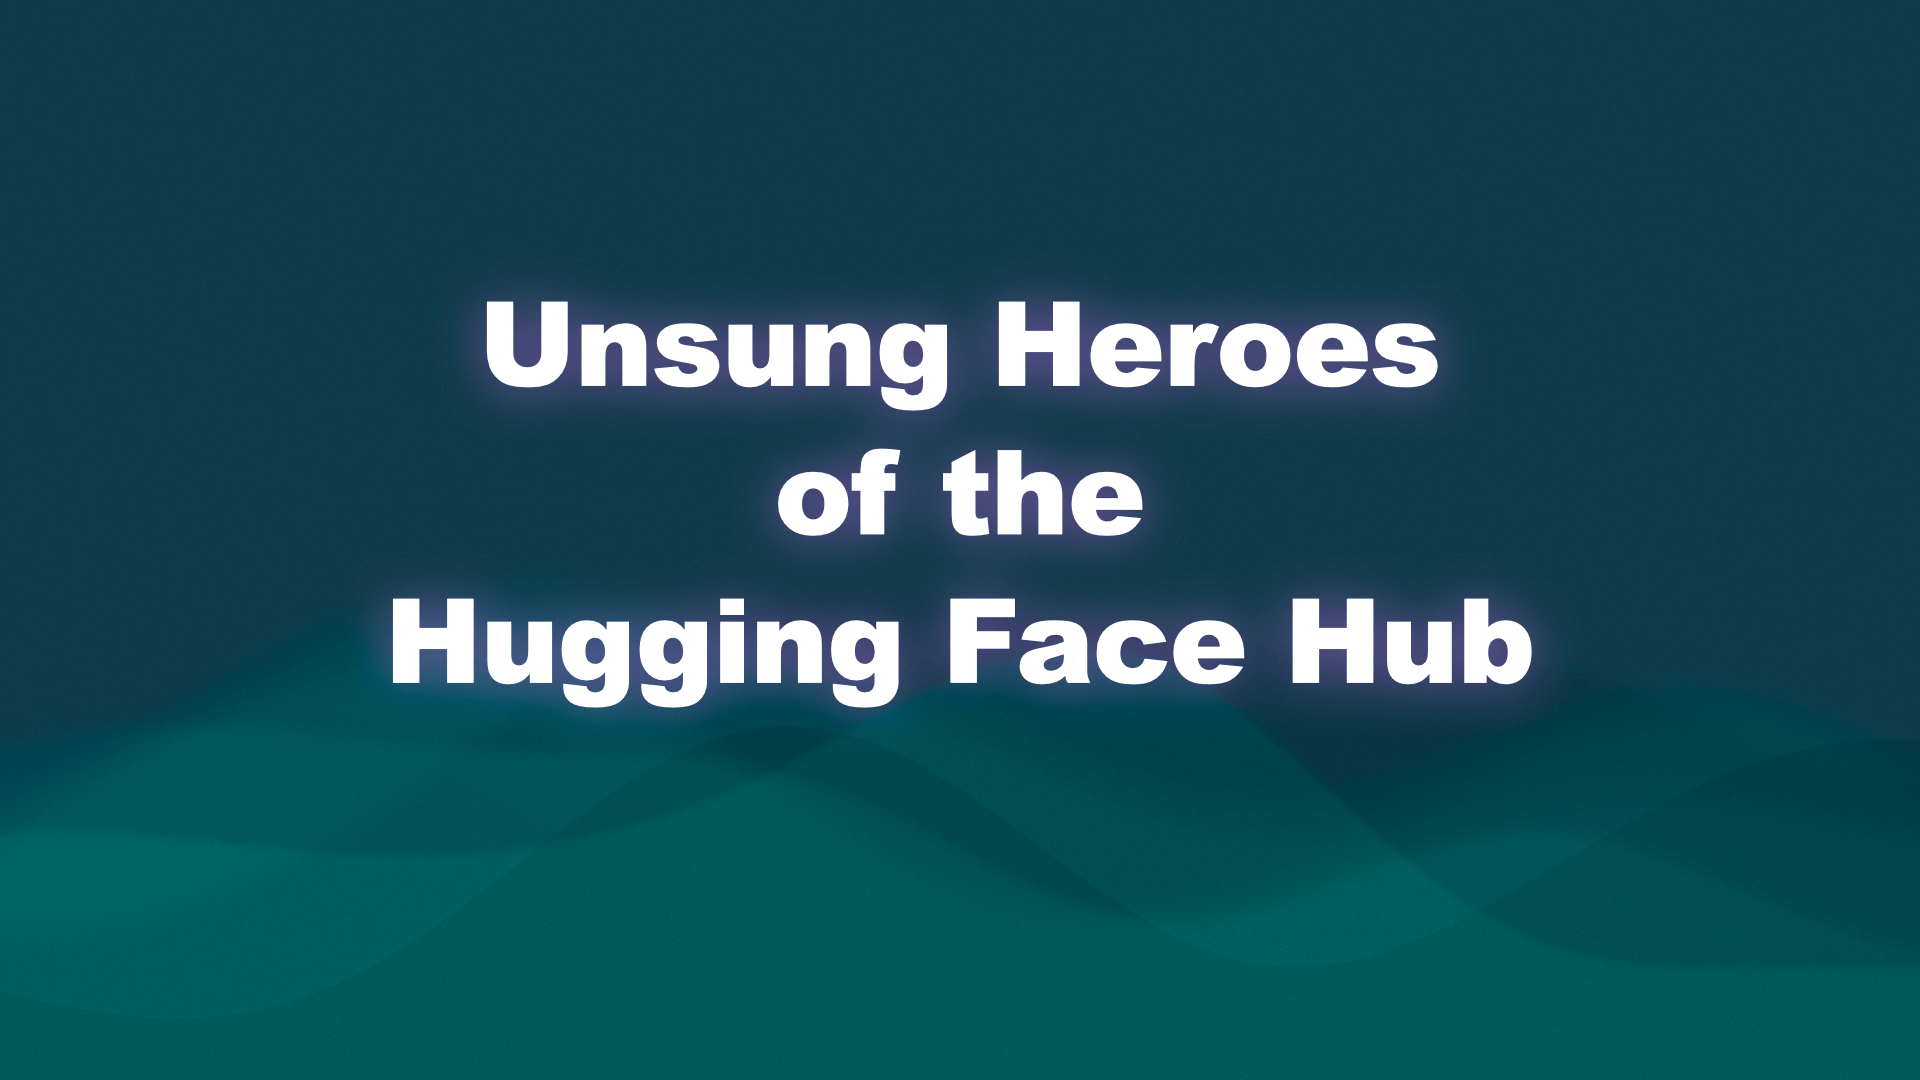
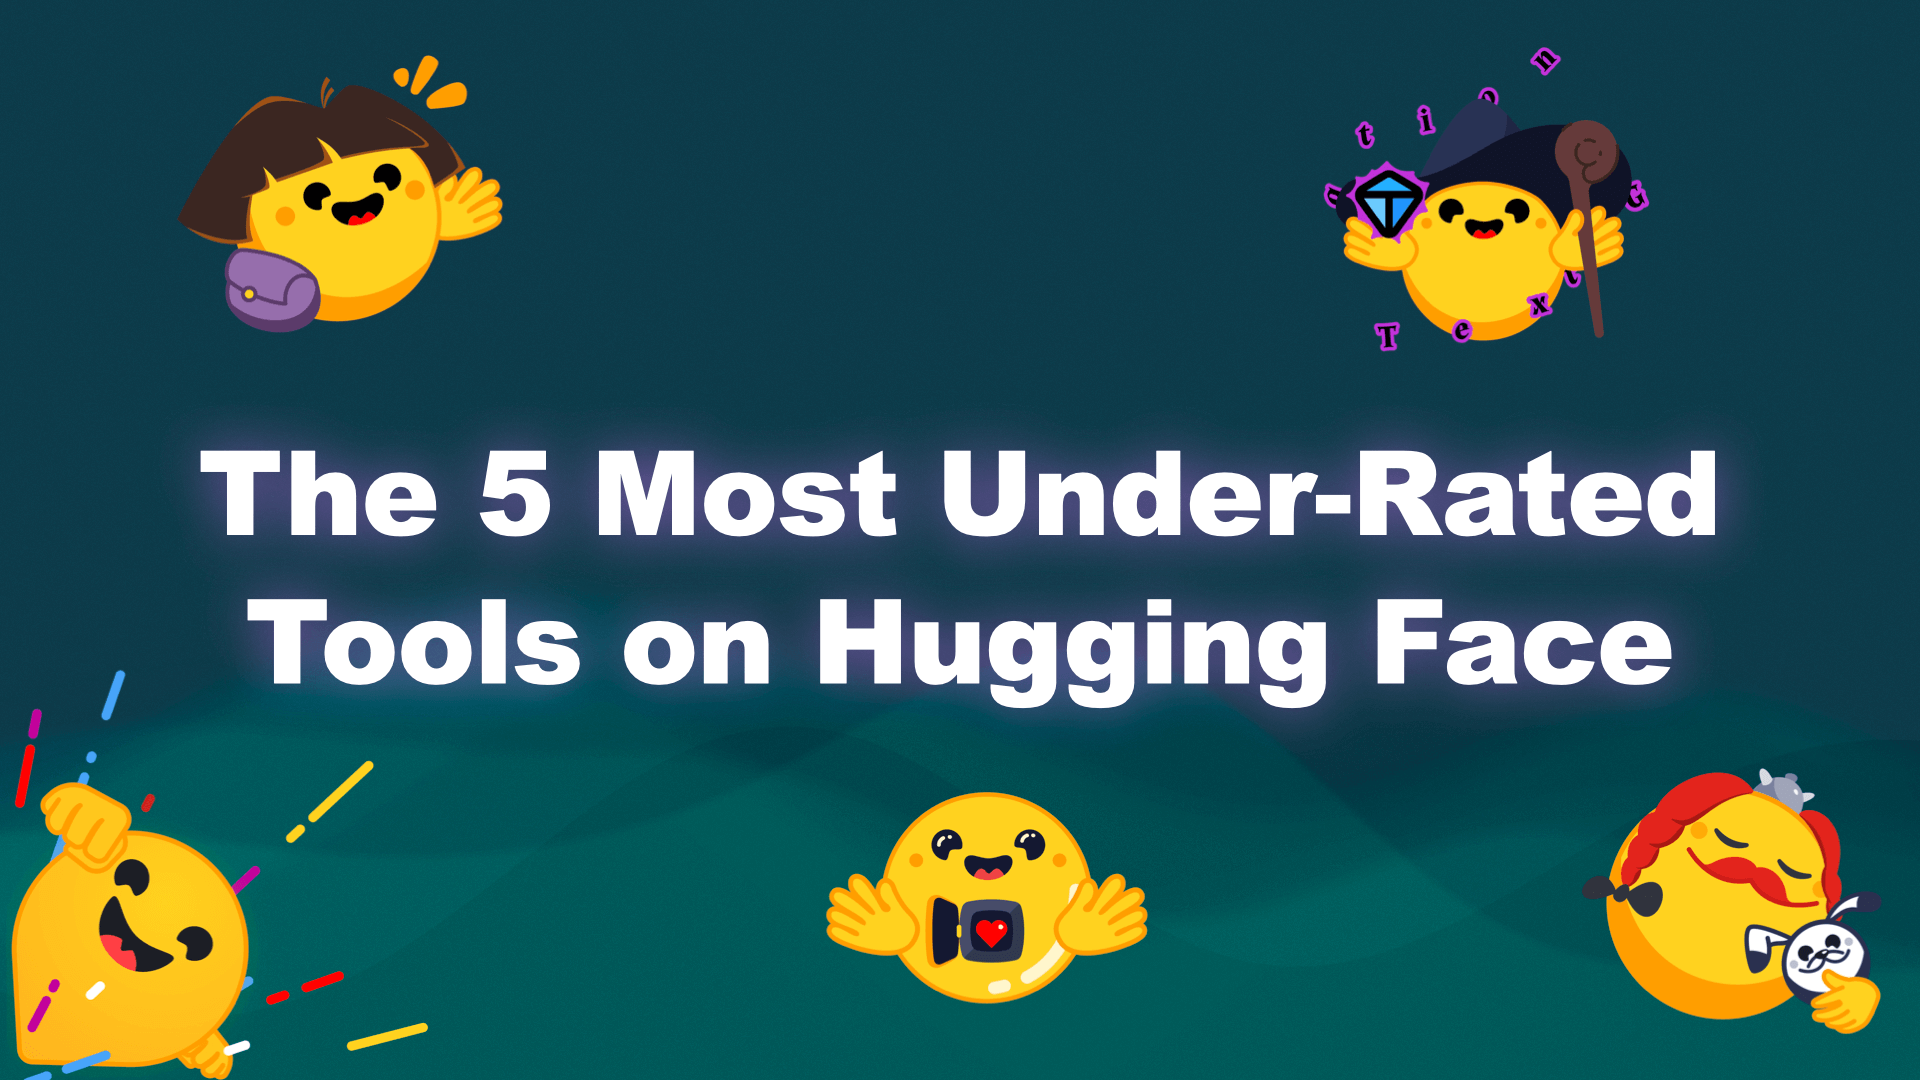
Derek/unsung heroes 2 (#2317)
* Updating title

* Updating title

diff --git a/unsung-heroes.md b/unsung-heroes.md
@@ -1,11 +1,11 @@
 ---
-title: "Unsung Heroes of the Hugging Face Hub" 
+title: "The 5 Most Under-Rated Tools on Hugging Face" 
 thumbnail: /blog/assets/unsung-heroes/thumbnail.png
 authors:
 - user: derek-thomas
 ---
 
-# Unsung Heroes of the Hugging Face Hub
+# The 5 Most Under-Rated Tools on Hugging Face
 
 <div style="background-color: #e6f9e6; padding: 16px 32px; outline: 2px solid; border-radius: 10px;">
 tl;dr The Hugging Face Hub has a number of tools and integrations that are often overlooked that can make it easier to build many types of AI solutions</div>
@@ -440,7 +440,7 @@ time.sleep(sleep_time)
 
 Using Nomic Atlas should be pretty self-explanatory and you can find
 some [further documentation here](https://docs.nomic.ai). But I'll give a quick intro so I can then highlight some of
-the lesser known features, unsung if you will 😉.
+the lesser known features.
 
 The main area with the dots shows each embedded document. The closer each document is, the more related it is. This will
 vary based on a few things (how well the embedder works on your data, compression from high dimensionality to 2D
